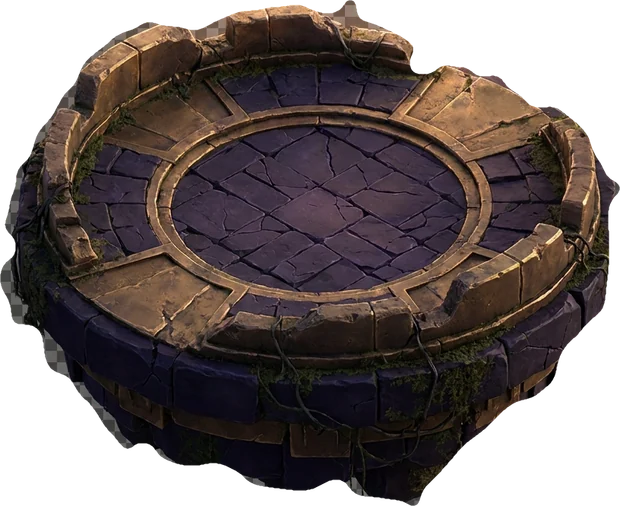
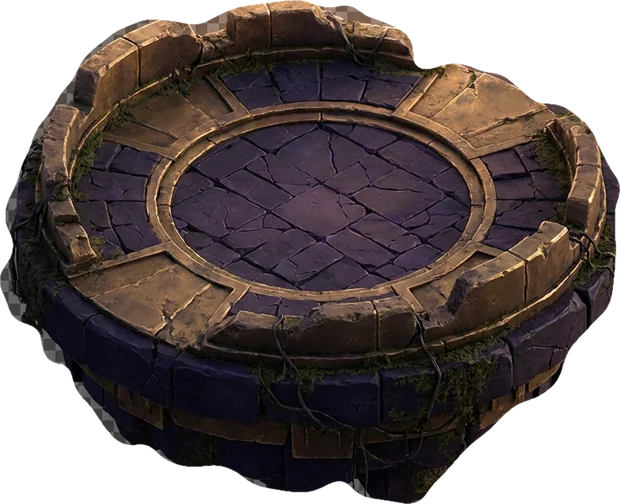
Galerie des arenes : on glisse vers le haut pour voir les suivantes
L'arene du hub devient une porte. On appuie dessus — elle avance vers le doigt,
le voile s'ouvre — et la galerie s'installe : une arene par ecran, calee au
defilement, qu'on parcourt en glissant vers le haut. Chaque arene porte son nom,
le seuil de trophees qui y mene, et celle ou l'on se trouve est marquee. Les
ligues dont l'illustration n'existe pas encore s'affichent en chantier plutot
que de laisser un trou : le joueur voit ce qui l'attend, et que ca se construit.

L'arene Argent rejoint le Bronze. Livree avec un vrai canal alpha, elle n'a
demande qu'un rognage : 236 Ko deviennent 27 Ko.

Le Bronze, lui, est repris : son fond n'etait pas entierement retire. Le
detourage precedent melait saturation et periodicite, ce qui laissait des
franges de damier sur le bord gauche et en haut a droite. Mesure par zones, la
periodicite tranche seule et sans appel — le damier score 70 a 132 la ou l'arene
ne depasse 16 — a condition de couper au milieu du creux et non pres du bord.
Une ouverture morphologique emporte ensuite les filaments de joints restes
accroches au disque. Il ne subsiste que 0,08 % de pixels gris dans le sujet,
contre 8,6 % auparavant.

Verifie dans le navigateur : les cinq pages sont la, le calage vertical est
"mandatory", un glissement mene du Bronze a l'Argent puis a l'Or, les deux
illustrations se chargent, et la fermeture ramene au hub.

diff --git a/emprise-app/src/App.jsx b/emprise-app/src/App.jsx
@@ -532,9 +532,12 @@ const ARENES = {
   Légende: { img: "/arenes/legende.webp", marge: 13, braise: "rgba(255,95,35,0.85)" },
 };
 
+// hub : l'illustration de l'arene, quand elle existe. Les ligues qui n'en ont pas encore
+// s'affichent en chantier plutot que de laisser un trou : le joueur voit ainsi ce qui
+// l'attend, et que ca se construit.
 const LEAGUES = [
-  { name: "Bronze", min: 0 },
-  { name: "Argent", min: 300 },
+  { name: "Bronze", min: 0, hub: "/arenes/bronze-hub.webp" },
+  { name: "Argent", min: 300, hub: "/arenes/argent-hub.webp" },
   { name: "Or", min: 800 },
   { name: "Platine", min: 1500 },
   { name: "Légende", min: 2500 },
@@ -2675,6 +2678,93 @@ const APP_STYLES = `
           flex: 1 1 auto; min-height: 0; width: 100%;
           display: flex; flex-direction: column; align-items: center; justify-content: center;
           gap: 5px; margin-top: 2px;
+          background: none; border: none; padding: 0; font: inherit; cursor: pointer;
+          transition: transform .16s ease-out;
+        }
+        /* On entre dans l'arene : elle avance vers le doigt avant de s'ouvrir. */
+        .hub-arene:active { transform: scale(1.05); }
+        .hub-arene:active .hub-arene-img { filter: drop-shadow(0 16px 26px rgba(0,0,0,0.6)) brightness(1.15); }
+
+        /* ---------- Galerie des arenes ---------- */
+        .arenes-voile {
+          padding: 0; align-items: stretch; justify-content: stretch;
+          animation: arenes-ouvre 0.32s cubic-bezier(0.22, 1, 0.36, 1) both;
+        }
+        @keyframes arenes-ouvre {
+          from { opacity: 0; backdrop-filter: blur(0); }
+          to { opacity: 1; }
+        }
+        .arenes-defile {
+          width: 100%; height: 100dvh; overflow-y: auto; overflow-x: hidden;
+          scroll-snap-type: y mandatory; -webkit-overflow-scrolling: touch;
+          overscroll-behavior-y: contain;
+          scrollbar-width: none;
+        }
+        .arenes-defile::-webkit-scrollbar { display: none; }
+        .arene-page {
+          height: 100dvh; scroll-snap-align: center; scroll-snap-stop: always;
+          display: flex; flex-direction: column; align-items: center; justify-content: center;
+          gap: 6px; padding: 40px 20px 28px; box-sizing: border-box; position: relative;
+        }
+        .arene-page-img {
+          max-width: min(84vw, 380px); max-height: 46dvh; width: auto; height: auto;
+          object-fit: contain; display: block;
+          filter: drop-shadow(0 18px 30px rgba(0,0,0,0.65));
+          animation: arene-page-monte 0.5s ease-out both;
+        }
+        @keyframes arene-page-monte {
+          from { opacity: 0; transform: translateY(14px) scale(0.96); }
+          to { opacity: 1; transform: none; }
+        }
+        .arene-page-chantier {
+          width: min(70vw, 260px); aspect-ratio: 4 / 3; border-radius: 16px;
+          display: flex; flex-direction: column; align-items: center; justify-content: center; gap: 8px;
+          background: rgba(255,255,255,0.03); border: 1px dashed rgba(203,164,86,0.3);
+        }
+        .arene-page-chantier svg { width: 34px; height: 34px; fill: var(--gold); opacity: 0.7; }
+        .arene-page-chantier span {
+          font-family: 'Cinzel', serif; font-size: 11px; letter-spacing: 0.16em;
+          text-transform: uppercase; color: var(--muted);
+        }
+        .arene-page-nom {
+          font-family: 'Cinzel', serif; font-size: 19px; font-weight: 700;
+          letter-spacing: 0.16em; text-transform: uppercase; color: var(--gold-bright);
+          text-shadow: 0 2px 8px rgba(0,0,0,0.9); margin-top: 8px;
+        }
+        .arene-page-seuil { font-size: 12px; color: var(--muted); }
+        .arene-page-ici {
+          margin-top: 6px; padding: 3px 12px; border-radius: 999px;
+          font-family: 'Cinzel', serif; font-size: 10.5px; font-weight: 700;
+          letter-spacing: 0.12em; text-transform: uppercase;
+          color: var(--gold-bright); background: rgba(203,164,86,0.16);
+          border: 1px solid rgba(203,164,86,0.5);
+        }
+        .arene-page-fleche {
+          position: absolute; left: 0; right: 0; bottom: 16px;
+          display: flex; flex-direction: column; align-items: center; gap: 2px;
+          font-size: 9.5px; letter-spacing: 0.16em; text-transform: uppercase; color: var(--muted);
+          animation: arene-fleche-respire 2.2s ease-in-out infinite;
+        }
+        .arene-page-fleche svg {
+          width: 16px; height: 16px; fill: none; stroke: var(--gold);
+          stroke-width: 2; stroke-linecap: round; stroke-linejoin: round;
+        }
+        @keyframes arene-fleche-respire {
+          0%, 100% { opacity: 0.45; transform: translateY(2px); }
+          50% { opacity: 1; transform: translateY(-2px); }
+        }
+        .arenes-fermer {
+          position: fixed; top: 14px; right: 14px; z-index: 5;
+          width: 38px; height: 38px; border-radius: 50%; cursor: pointer;
+          display: flex; align-items: center; justify-content: center;
+          background: rgba(8,6,12,0.75); border: 1px solid rgba(203,164,86,0.4);
+        }
+        .arenes-fermer svg {
+          width: 17px; height: 17px; fill: none; stroke: var(--bone);
+          stroke-width: 2; stroke-linecap: round;
+        }
+        @media (prefers-reduced-motion: reduce) {
+          .arenes-voile, .arene-page-img, .arene-page-fleche { animation: none; }
         }
         .hub-arene-img {
           max-width: min(88vw, 380px); max-height: 100%; width: auto; height: auto;
@@ -8945,15 +9035,15 @@ export default function Emprise() {
                     a son illustration pour l'instant ; les ligues suivantes reprendront la
                     même tant que les leurs n'existent pas, plutôt que d'afficher un trou.
                     Si le fichier venait à manquer, l'image s'efface et le nom reste. */}
-                <div className="hub-arene">
+                <button className="hub-arene" onClick={() => setActiveModal("arenes")} aria-haspopup="dialog" title="Voir toutes les arènes">
                   <span className="hub-arene-nom">Arène {getLeague(stats.trophies || 0).name}</span>
                   <img
                     className="hub-arene-img"
-                    src="/arenes/bronze-hub.webp"
+                    src={getLeague(stats.trophies || 0).hub || "/arenes/bronze-hub.webp"}
                     alt=""
                     onError={(e) => { e.currentTarget.style.display = "none"; }}
                   />
-                </div>
+                </button>
 
                 {/* Les retours en ligne ratés (adversaire parti, réseau coupé) ramènent
                     ici : sans cet avis, le joueur se retrouvait au hub sans savoir
@@ -9062,6 +9152,47 @@ export default function Emprise() {
               <span>Ordres</span>
             </button>
           </nav>
+
+          {activeModal === "arenes" && (() => {
+            const ligue = getLeague(stats.trophies || 0);
+            return (
+              <div className="info-overlay arenes-voile" onClick={() => setActiveModal(null)}>
+                {/* Une arene par ecran, calee au defilement : on glisse vers le haut et la
+                    suivante vient se poser. Le voile se ferme au clic a cote. */}
+                <div className="arenes-defile" onClick={(e) => e.stopPropagation()}>
+                  {LEAGUES.map((l, i) => {
+                    const ici = l.name === ligue.name;
+                    return (
+                      <section key={l.name} className={`arene-page ${ici ? "ici" : ""}`}>
+                        {l.hub ? (
+                          <img className="arene-page-img" src={l.hub} alt="" />
+                        ) : (
+                          <div className="arene-page-chantier" aria-hidden="true">
+                            <svg viewBox="0 0 24 24"><path d="M12 2 2 20h20L12 2zm0 5 6 11H6l6-11zm-1 3v4h2v-4h-2zm0 5v2h2v-2h-2z" /></svg>
+                            <span>En construction</span>
+                          </div>
+                        )}
+                        <div className="arene-page-nom">Arène {l.name}</div>
+                        <div className="arene-page-seuil">
+                          {l.min === 0 ? "Dès votre premier duel" : `À partir de ${l.min} trophées`}
+                        </div>
+                        {ici && <span className="arene-page-ici">Vous êtes ici</span>}
+                        {i < LEAGUES.length - 1 && (
+                          <span className="arene-page-fleche" aria-hidden="true">
+                            <svg viewBox="0 0 24 24"><path d="M12 4v14M6 10l6-6 6 6" /></svg>
+                            glissez vers le haut
+                          </span>
+                        )}
+                      </section>
+                    );
+                  })}
+                </div>
+                <button className="arenes-fermer" onClick={() => setActiveModal(null)} aria-label="Fermer">
+                  <svg viewBox="0 0 24 24" aria-hidden="true"><path d="M6 6l12 12M18 6L6 18" /></svg>
+                </button>
+              </div>
+            );
+          })()}
 
           {activeModal === "profil" && (() => {
             const profil = titresDuProfil(stats);
